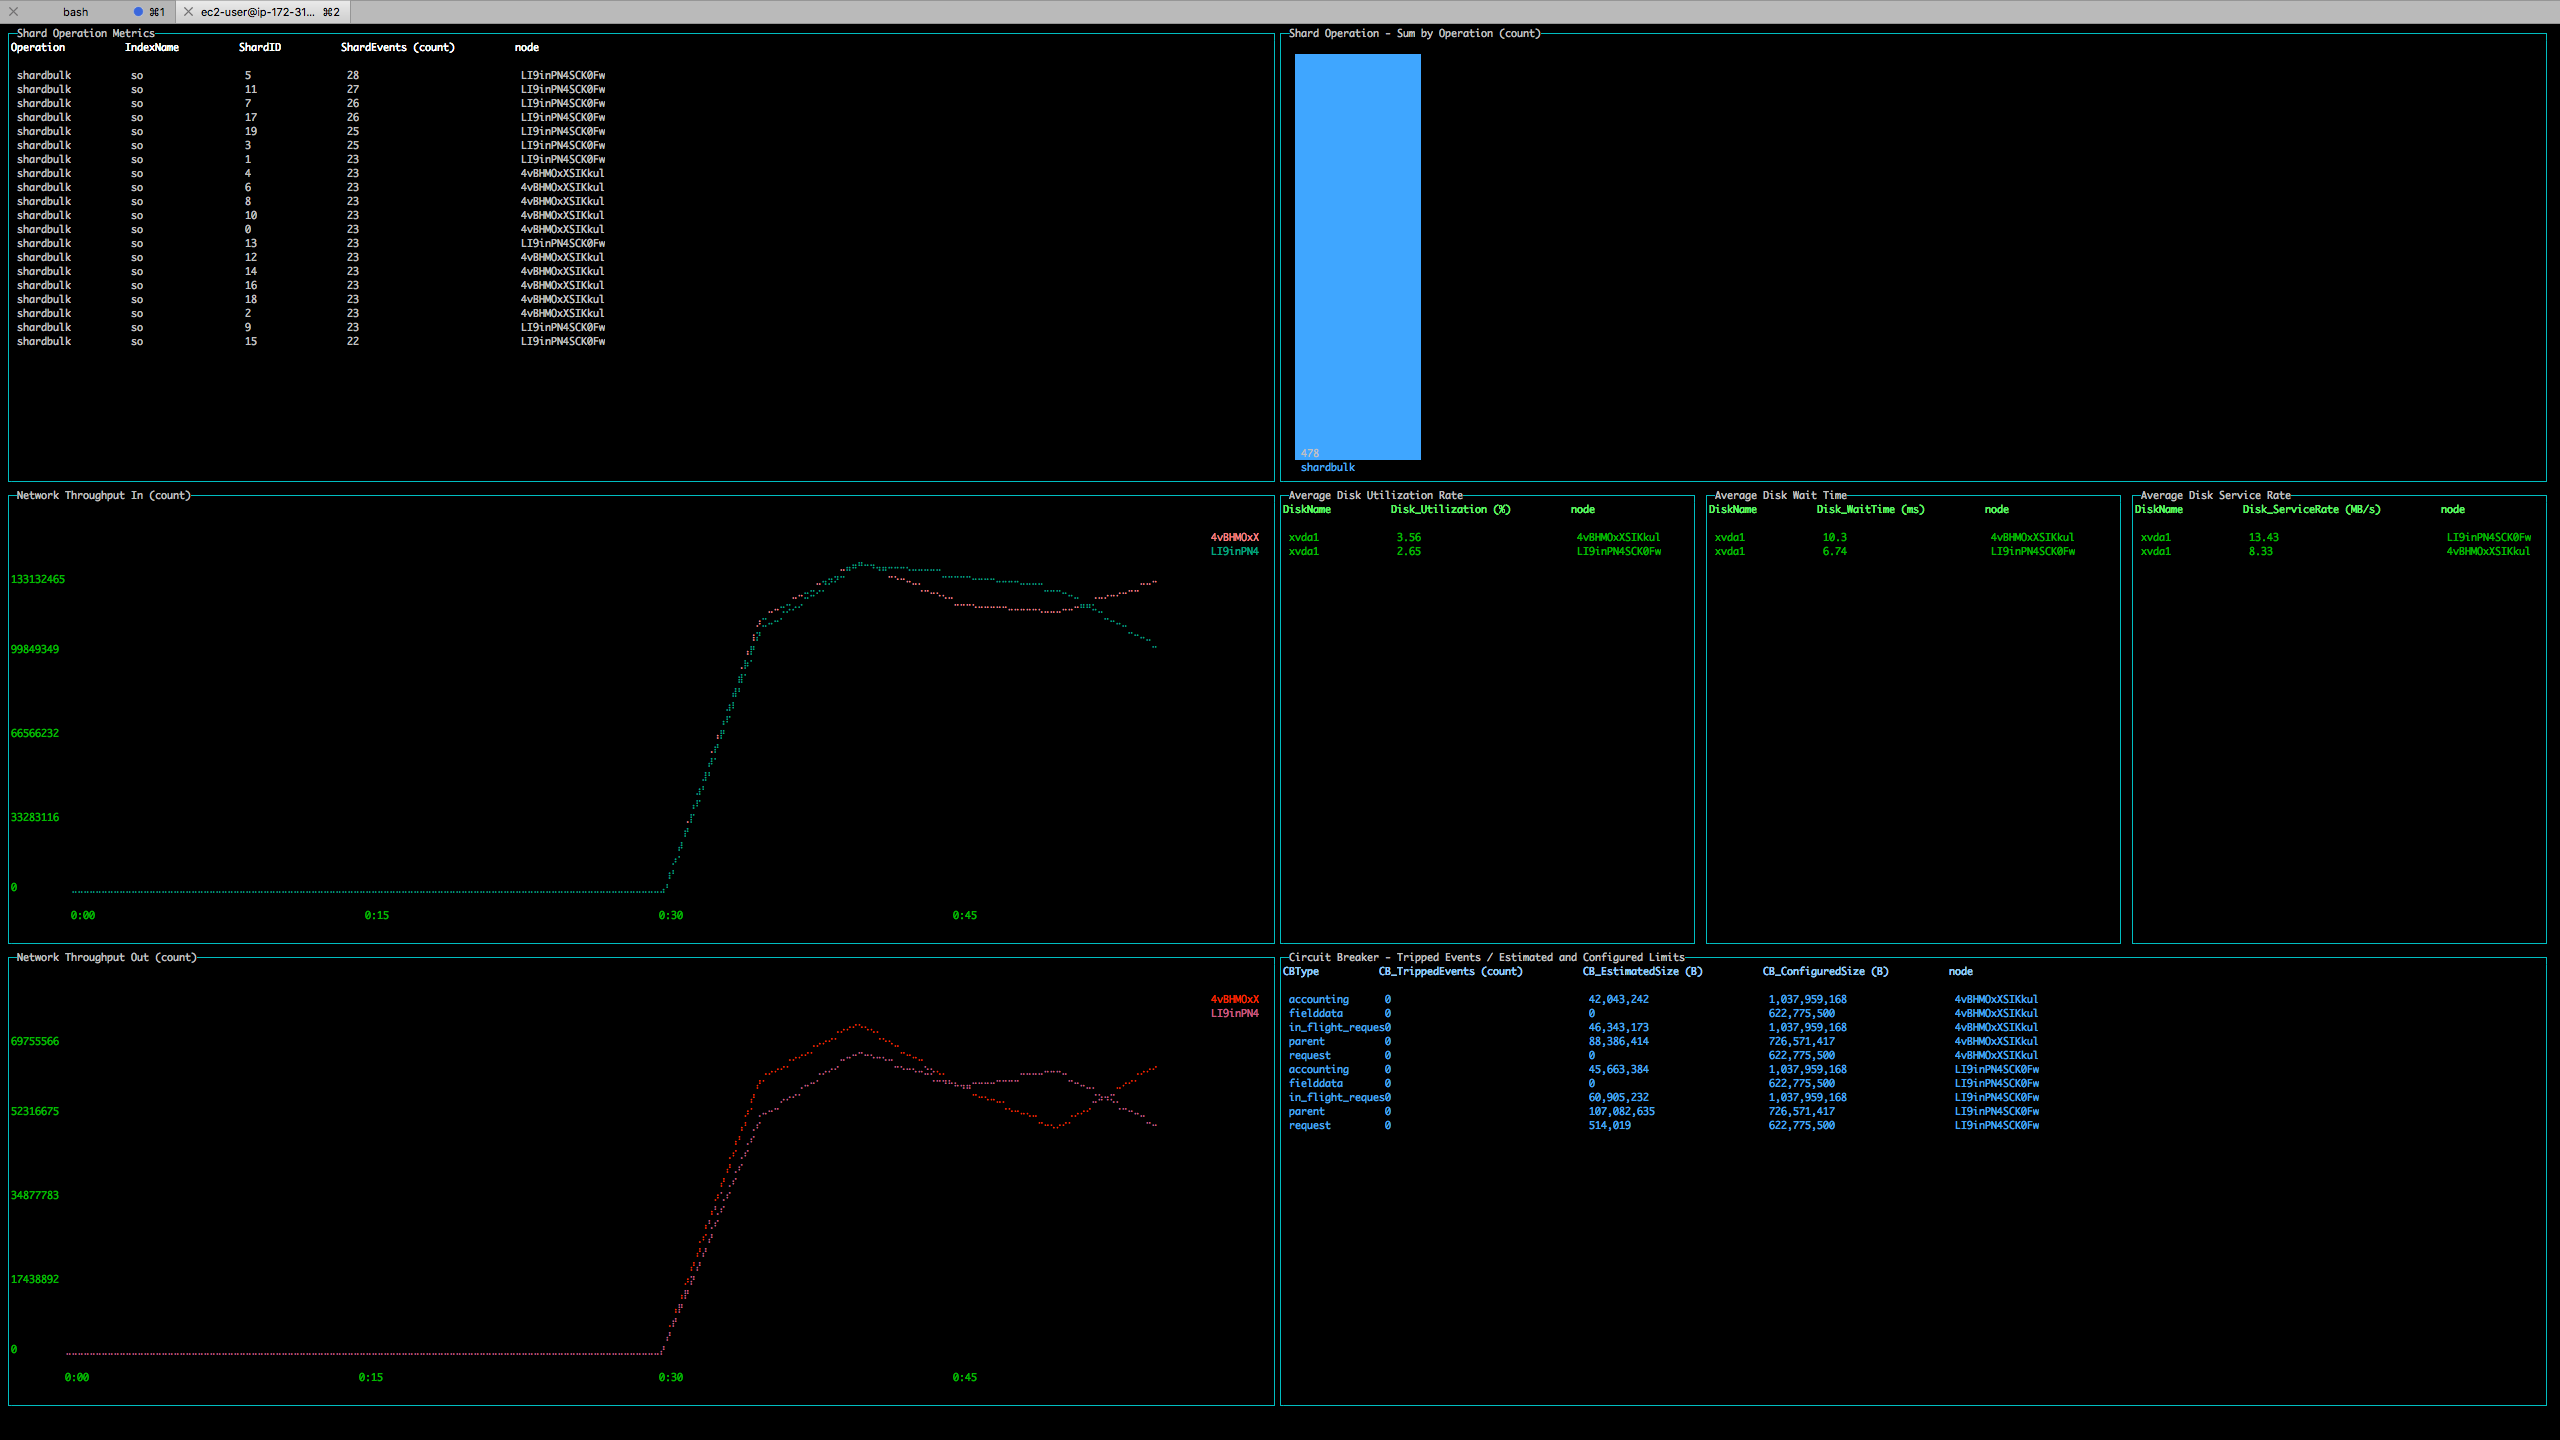
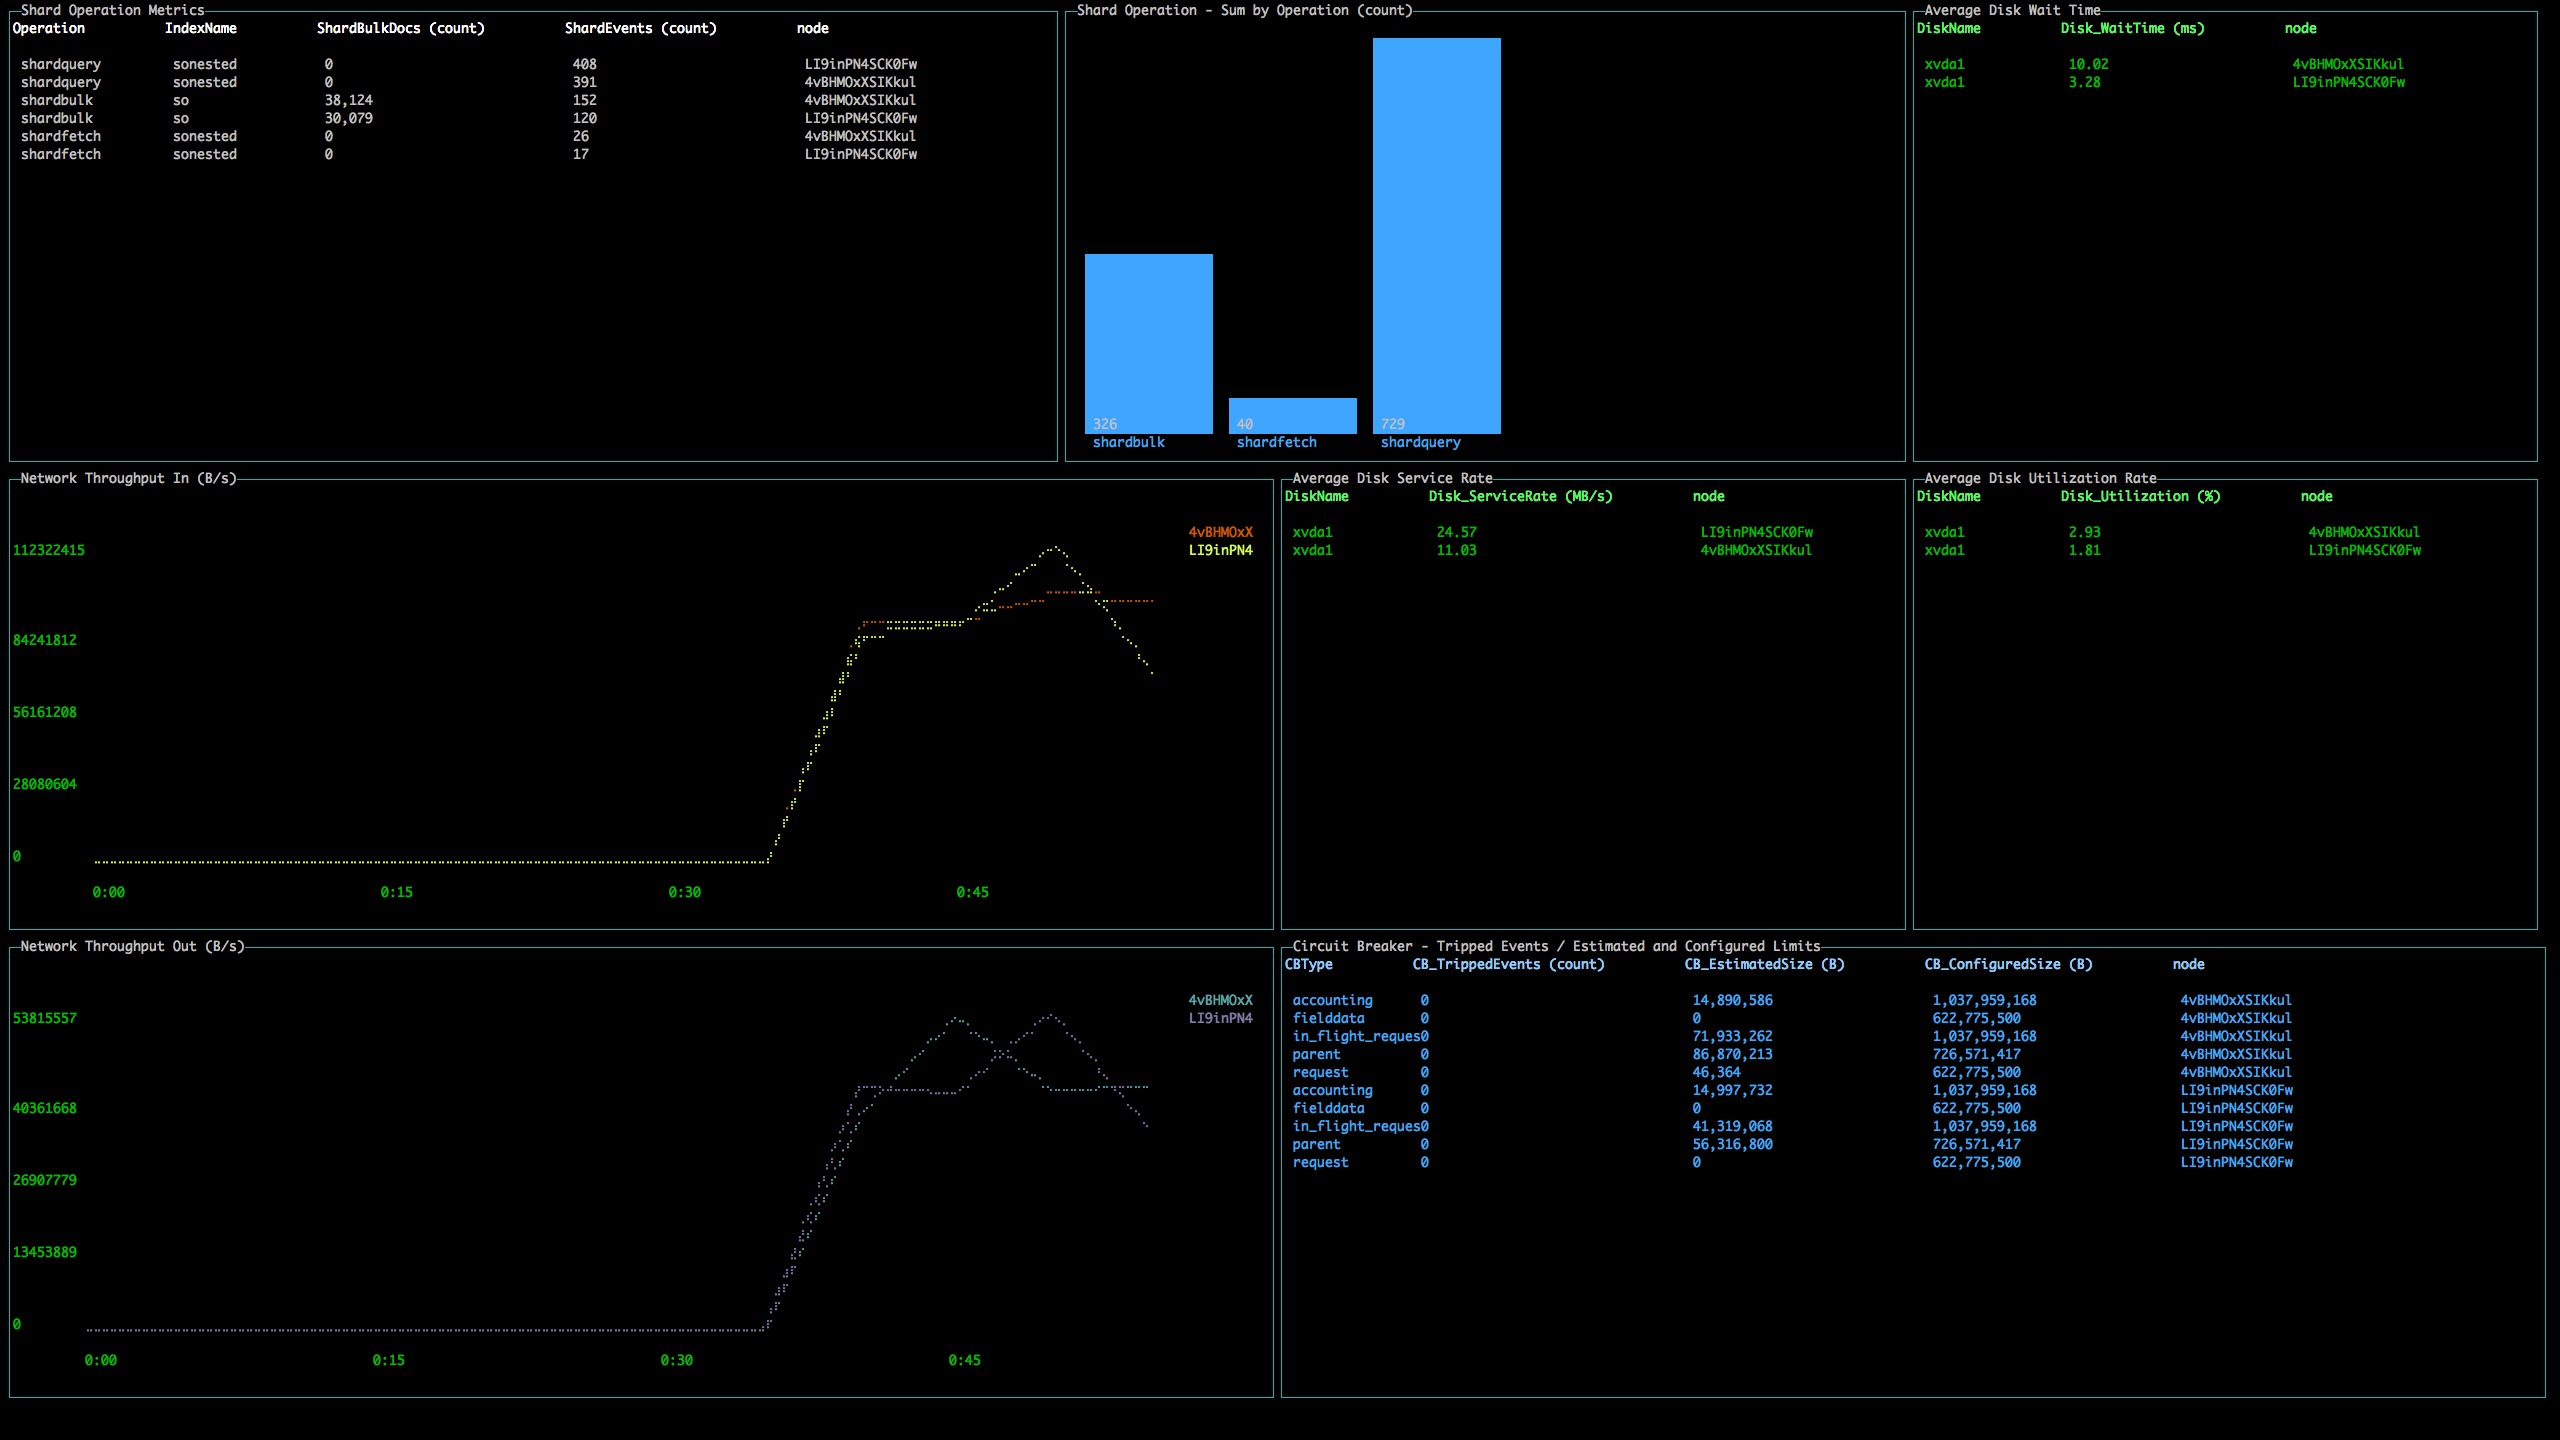
* Redesign dashboards * Update README * Update build.gradle to upload the artifacts to the correct S3 destination

diff --git a/bin.js b/bin.js
@@ -20,8 +20,8 @@ var process = require('process');
 var util = require('util');
 
 var clusterOverviewJSON = require('./dashboards/ClusterOverview.json');
-var clusterMemoryAnalysisJSON = require('./dashboards/ClusterMemoryAnalysis.json');
-var clusterOperationAnalysisJSON = require('./dashboards/ClusterOperationAnalysis.json');
+var clusterNetworkMemoryAnalysisJSON = require('./dashboards/ClusterNetworkMemoryAnalysis.json');
+var clusterThreadAnalysisJSON = require('./dashboards/ClusterThreadAnalysis.json');
 var nodeAnalysisJSON = require('./dashboards/NodeAnalysis.json');
 
 var graphGenerator = require('./perf-top/generate-graphs.js');
@@ -35,8 +35,8 @@ parser.addArgument(
   { required: true,
     help: 'Relative path to the dashboard configuration JSON. ' +
     'To load preset dashboard, this may also be: ' +
-    '(1) ClusterOverview, (2) ClusterMemoryAnalysis, ' +
-    '(3) ClusterOperationAnalysis, or (4) NodeAnalysis. (e.g. "--dashboard ClusterOverview")'}
+    '(1) ClusterOverview, (2) ClusterNetworkMemoryAnalysis, ' +
+    '(3) ClusterThreadAnalysis, or (4) NodeAnalysis. (e.g. "--dashboard ClusterOverview")'}
 );
 parser.addArgument(
   [ '--endpoint' ],
@@ -57,10 +57,10 @@ var args = parser.parseArgs();
 var jsonData;
 if (args.dashboard === 'ClusterOverview') {
   jsonData = clusterOverviewJSON;
-} else if (args.dashboard === 'ClusterMemoryAnalysis') {
-  jsonData = clusterMemoryAnalysisJSON;
-} else if (args.dashboard === 'ClusterOperationAnalysis') {
-  jsonData = clusterOperationAnalysisJSON;
+} else if (args.dashboard === 'ClusterNetworkMemoryAnalysis') {
+  jsonData = clusterNetworkMemoryAnalysisJSON;
+} else if (args.dashboard === 'ClusterThreadAnalysis') {
+  jsonData = clusterThreadAnalysisJSON;
 } else if (args.dashboard === 'NodeAnalysis') {
   jsonData = nodeAnalysisJSON;
 } else {

diff --git a/README.md b/README.md
@@ -21,7 +21,8 @@ Supported platforms: Linux, MacOS
 ```
 `--dashboard` argument can be passed in as the relative path to the JSON configuration file.
 For preset dashboards, it can also be passed in as `ClusterOverview`, `ClusterPerformanceDiagnostic`,
-`ClusterPerformanceInformational`, or `NodeAnalysis` instead of the JSON file path (e.g. `--dashboard ClusterOverview`). For what each dashboard entails, refer to [Preset Dashboards](##preset-dashboards).
+`ClusterPerformanceInformational`, or `NodeAnalysis` instead of the JSON file path (e.g. `--dashboard ClusterOverview`).
+For what each dashboard entails, refer to "Preset Dashboards" section.
 
 From a cluster node with Performance Analyzer REST API on port 9600, set your `ENDPOINT` to `localhost:9600`.
 
@@ -30,32 +31,49 @@ For stderr logging, add `--logfile $logfile`.
 For the preset `dashboards/NodeAnalysisDashboard.json`, pass in `--nodename $NODENAME` to configure your dashboard
 to fetch metrics for a single node.
 
+For exiting out of the screen, 'Escape', 'q', and 'Control-c' are supported.
+
 ### Without the Executables
-Refer to [Development section](##configuration###build).
+Refer to "Development/Build And Usage" section.
 
 ## Preset Dashboards
 
+* All sorts are in decreasing order.
+* Bar graphs show aggregated metrics on cluster-level unless stated otherwise.
+* Line graphs generate random colors. If no data shows up, it's likely that the data is 0.
+
 ### ClusterOverview
-![alt text](https://github.com/mauve-hedgehog/opendistro-elasticsearch-perftop/tree/master/images/ClusterOverview.png)
+<img src="./images/ClusterOverview.png" alt="term" width="1000">
 This dashboard can be used to see what operations are running on cluster-level and on shard-level.
-With this, users can measure which operation/node is consuming the most CPU
-and what latency the cluster is experiencing.
+With this, users can measure which operation/node is consuming the most CPU and what latency the cluster is experiencing.
+
+* "Resource Metrics" is sorted by CPU_Utilization.
+* "Shard Operation Metrics" is sorted by ShardEvents.
+* "Workload" is sorted by HTTP_RequestDocs.
 
 ### ClusterNetworkMemoryAnalysis
-![alt text](https://github.com/mauve-hedgehog/opendistro-elasticsearch-perftop/tree/master/images/ClusterNetworkMemoryAnalysis.png)
+<img src="./images/ClusterNetworkMemoryAnalysis.png" alt="term" width="1000">
 This dashboard shows shard-level operation, the network, and memory metrics.
 It can be used to analyze which shard is doing the most workload, the amount of data being transmitted by the network,
 which disk is performing poorly, and which circuit breaker type is experiencing OutOfMemory exceptions.
 
+* "Shard Operation Metrics" is sorted by ShardEvents.
+* "Circuit Breaker - Tripped Events / Estimated and Configured Limits" is sorted by CB_TrippedEvents.
+
 ### ClusterThreadAnalysis
-![alt text](https://github.com/mauve-hedgehog/opendistro-elasticsearch-perftop/tree/master/images/ClusterThreadAnalysis.png)
+<img src="./images/ClusterThreadAnalysis.png" alt="term" width="1000">
 This dashboard shows low-level metrics about threads/threadpools, which can be used to analyze
 which threadpool type is rejecting operations due to its queue being too large,
 which thread is running/waiting for too long and results in blocks,
 and which thread operation is having issues with memory and is having to load it from the disk.
 
+* "Thread Pool - Queue Size and Rejected Requests" is sorted by ThreadPool_RejectedReqs.
+* "Thread - Blocked Time" is sorted by Thread_Blocked_Time.
+* "Page Faults" is sorted by Paging_MajfltRate.
+* All "Context Switch" tables are sorted by Sched_*.
+
 ### NodeAnalysis
-![alt text](https://github.com/mauve-hedgehog/opendistro-elasticsearch-perftop/tree/master/images/NodeAnalysis.png)
+<img src="./images/NodeAnalysis.png" alt="term" width="1000">
 This dashboard has the most wide ranges of metric types.
 It shows shard-level operation metrics, thread metrics, JVM-related metrics
 (e.g. heap usage, garbage collection), and network packet drop rate metrics.
@@ -65,13 +83,19 @@ This dashboard supports `--nodename $NODENAME` command-line argument for display
 ONLY the node that starts with `$NODENAME`. If not provided, this dashboard will include all nodes.
 Users can also define different node names for each type of graphs from the JSON dashboard config.
 
+* "Shard Operation Metrics" is sorted by ShardEvents.
+* "Shard Request Cache Miss" is sorted by Cache_Request_Miss.
+* "Thread Pool - Queue Size and Rejected Requests" is sorted by ThreadPool_RejectedReqs.
+* "Heap Usage" is sorted by Heap_Used.
+* If no `--nodename $NODENAME` is provided, the bar graphs will be aggregated metrics on cluster-level.
+
 ## Development
 
 ### Requirements
 - `node` (version >= v10.0 < v11.0)
 - `npm`
 
-### Build/Usage
+### Build and Usage
 1. Clone/download from Github
 2. Run `./gradlew build`. This will run the following:
    1. `npm install` - locally installs dependencies
@@ -86,19 +110,19 @@ node ./bin.js --dashboard $JSON
 
 ## Configuration (JSON)
 
-### Required Fields
+### Supported Fields
 - `endpoint` - Define the endpoint for PerfTop. This can be provided via command line argument.
 - `graphs` - For each `tables`, `bars`, and `lines`
   - `queryParams` - Parameters for the HTTP request to fetch data from your endpoint
-    - `metrics` - For bar and line graphs, query for ONE metric that would return a numeric value
-    - `aggregates`
-    - `dimensions`
-    - `dimensionFilters` - Array of dimension values to fetch for.
-    - `nodeName` - The name of the node. PerfTop will do a "startswith" check on this. This can be "#nodeName" and be replaced by the `--nodename $NODE_NAME` command line argument.
-    - `sortBy` - In decreasing order. For tables only.
+    - `metrics` (required) - For bar and line graphs, query for ONE metric that would return a numeric value
+    - `aggregates` (required)
+    - `dimensions` (required)
+    - `dimensionFilters` (optional) - Array of dimension values to fetch for.
+    - `nodeName` (optional) - The name of the node. PerfTop will do a "startswith" check on this. This can be "#nodeName" and be replaced by the `--nodename $NODE_NAME` command line argument.
+    - `sortBy` - In decreasing order. Required for tables only.
   - `gridOptions` - For auto-positioning the graphs. Define `rows` and `cols` with a numeric value. The `gridPosition` will base off on these values.
   - `options` - Graph object options.
-    - `gridPosition` - Defines the position of your graph.
-    - `refreshInterval` - How frequently your graph will generate new data (in milliseconds).
+    - `gridPosition` (required) - Defines the position of your graph.
+    - `refreshInterval` (required) - How frequently your graph will generate new data (in milliseconds).
     - Refer to the [blessed library](https://github.com/chjj/blessed) and
 [blessed-contrib library](https://github.com/yaronn/blessed-contrib) for the other options.
